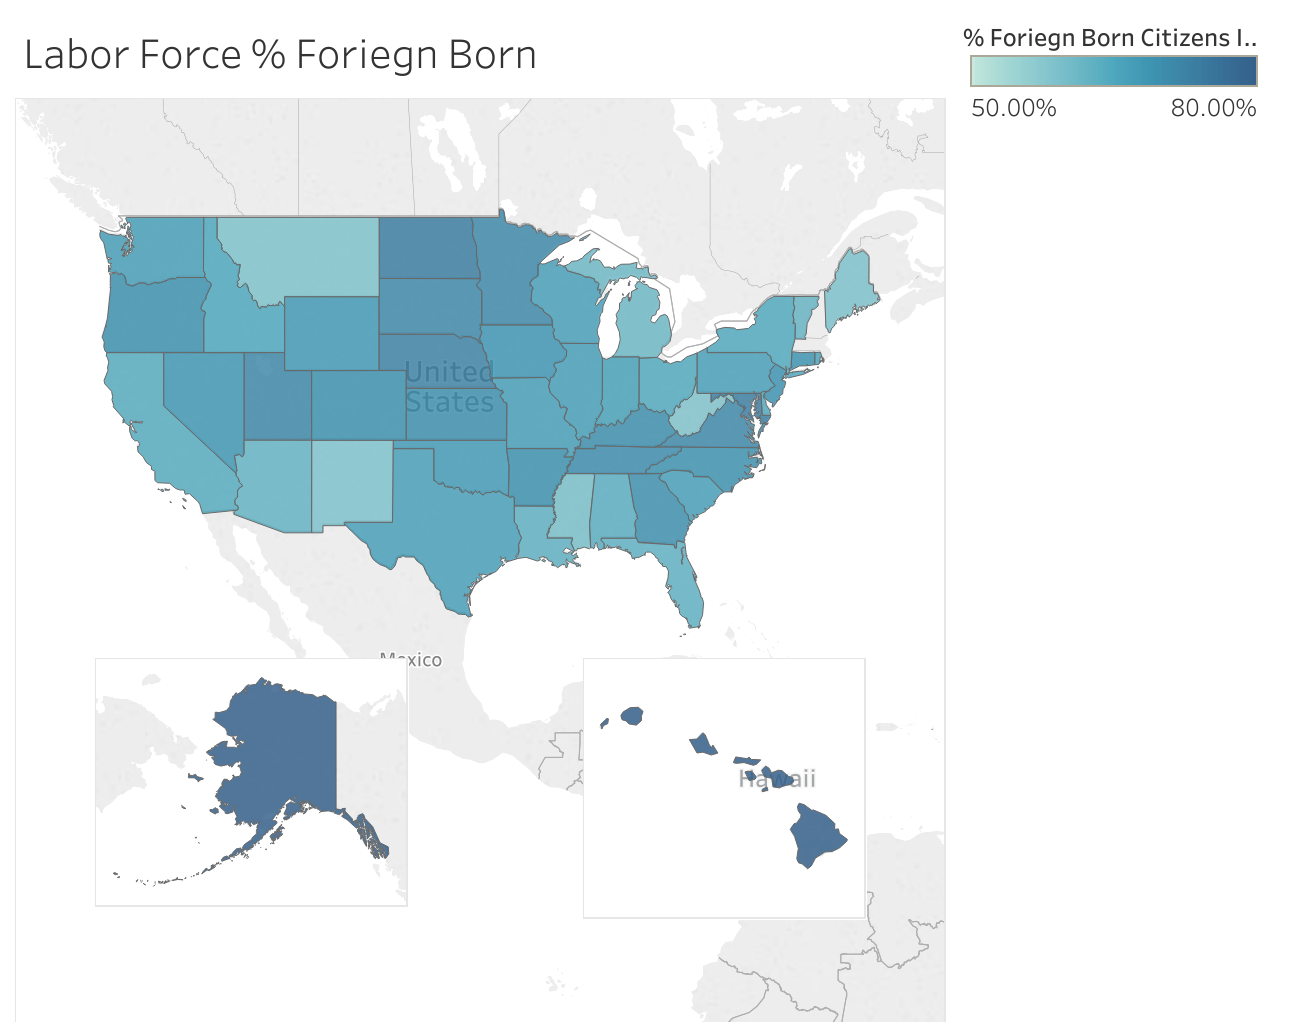
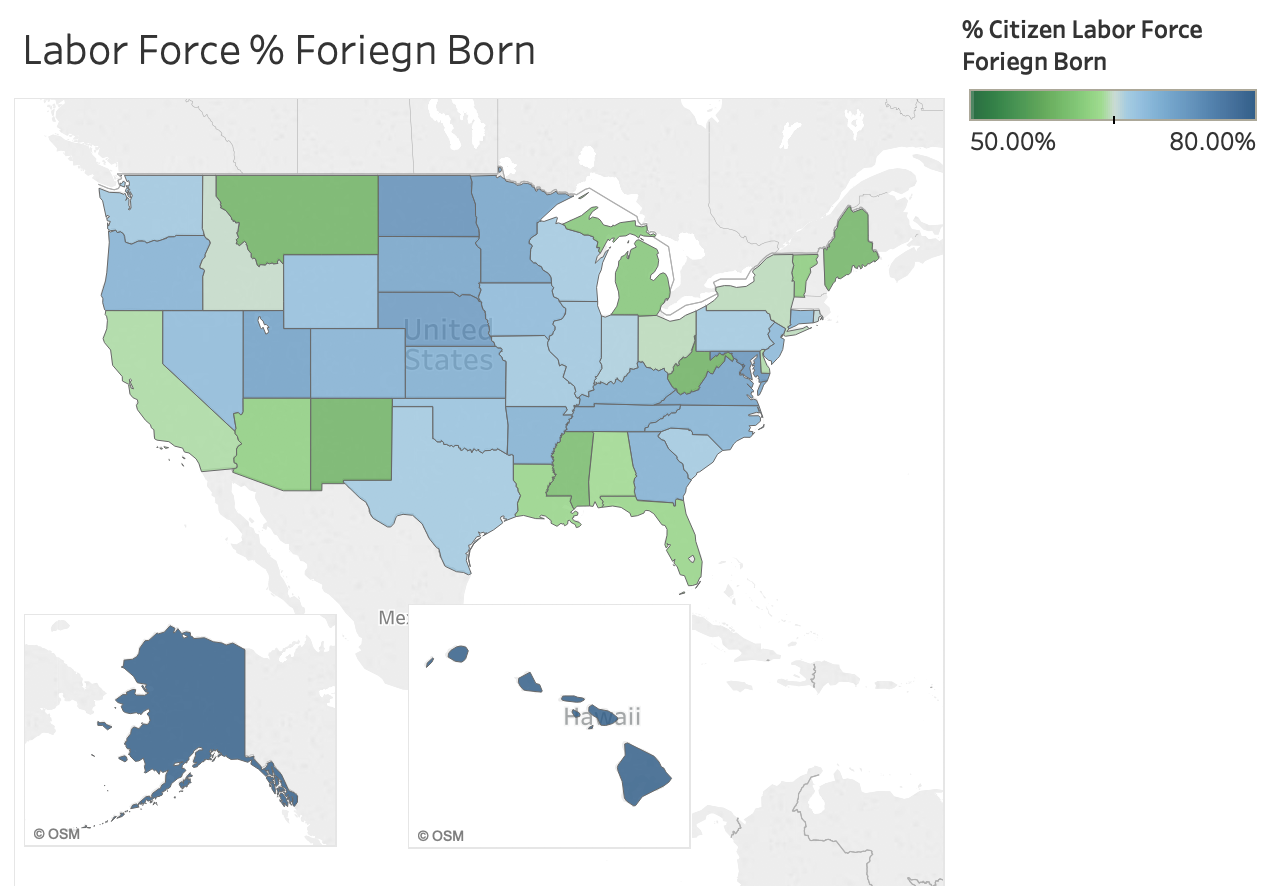
updates to the map section summary and image

diff --git a/template/index.html b/template/index.html
@@ -378,7 +378,7 @@
 							<header class="major">
 								<h2>Map</h2>
 							</header>
-							<p>A lacus vestibulum sed arcu non odio euismod. Feugiat in ante metus dictum at tempor commodo ullamcorper. Porttitor lacus luctus accumsan tortor posuere ac ut consequat semper. Habitasse platea dictumst vestibulum rhoncus est pellentesque elit ullamcorper dignissim. Libero id faucibus nisl tincidunt eget nullam non nisi est. Nunc faucibus a pellentesque sit amet porttitor. Feugiat in fermentum posuere urna nec. Orci porta non pulvinar neque laoreet suspendisse interdum consectetur. Sed turpis tincidunt id aliquet risus.</p>
+							<p>The below chart uses data from migrationpolicy.org to show the percentage of the each state's citizen labor force that is foriegn born.</p>
 						</div>
 						<div class="col-10 col-12-medium imp-medium">
 							<span class="image fit">
